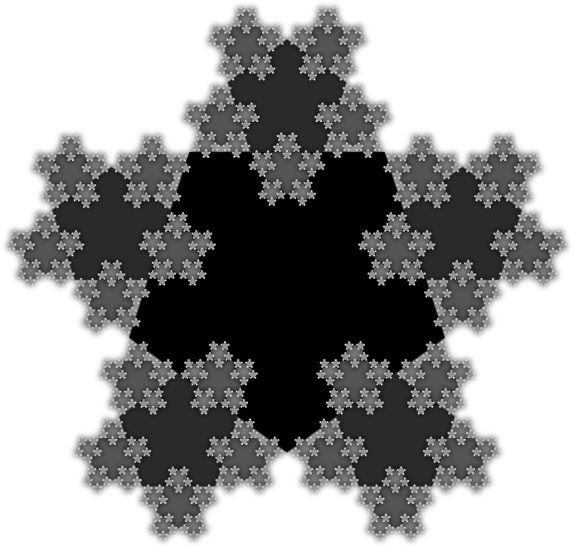
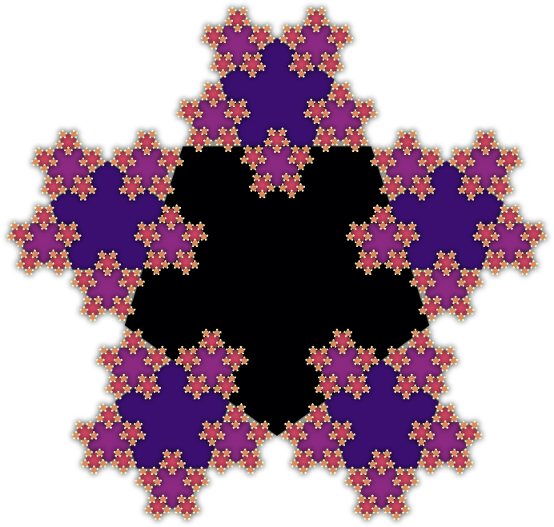
Use color scale for snowflake

diff --git a/README.md b/README.md
@@ -8,4 +8,4 @@ Functional rendering using PureScript and HTML 5 Canvas
 - [Module Documentation](docs/Graphics/Drawing.md)
 - [Example](test/Main.purs)
 
-![Snowflake](https://github.com/paf31/purescript-drawing/raw/master/Snowflake.png "Snowflake")
+![Snowflake](Snowflake.png "Snowflake")
